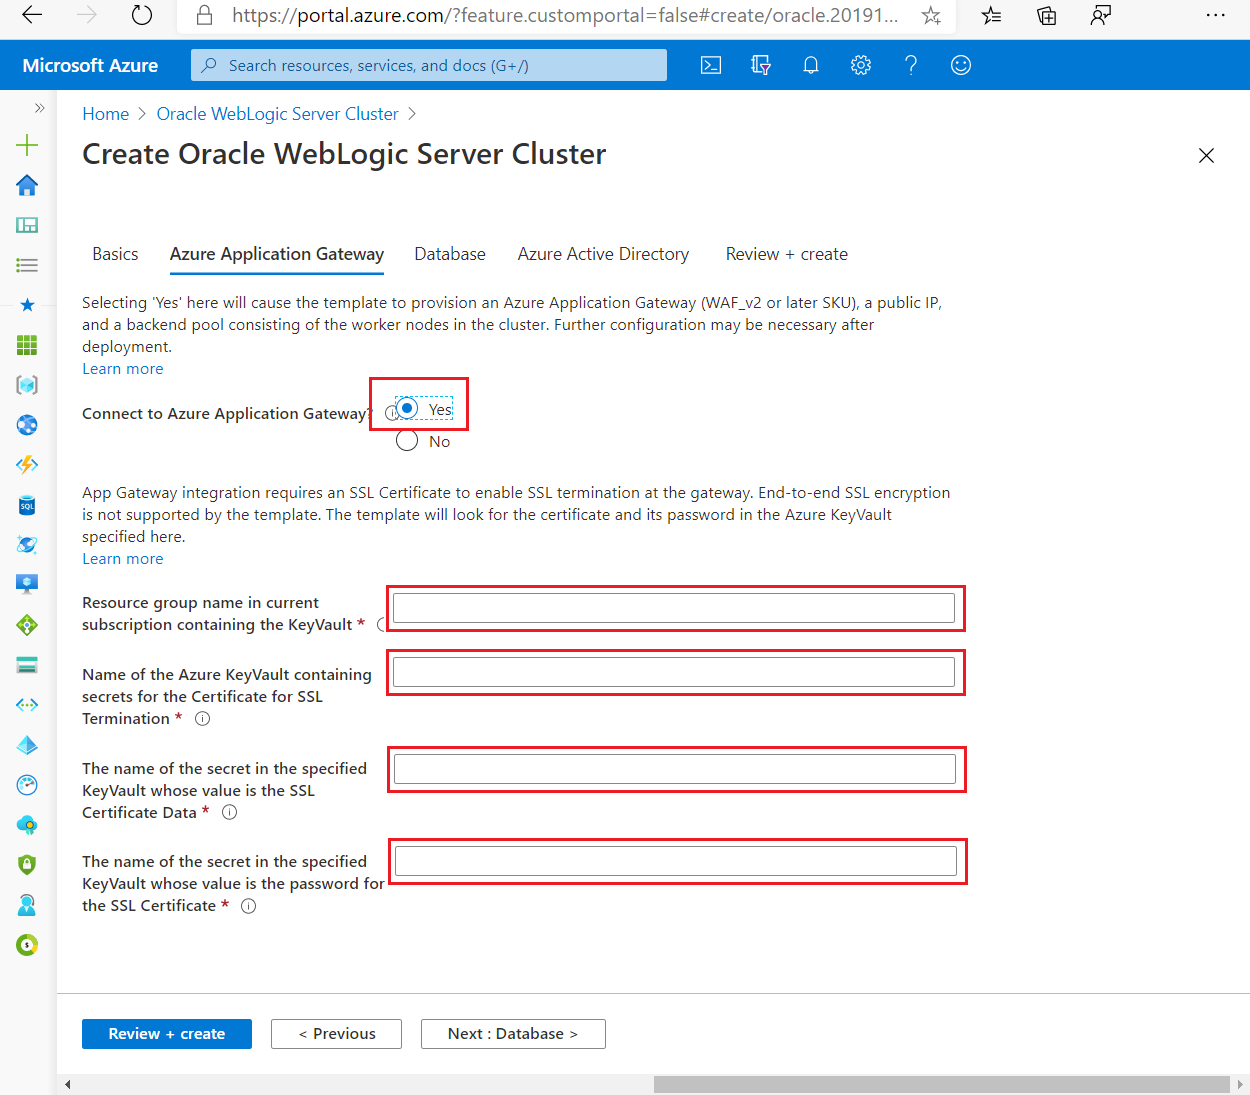
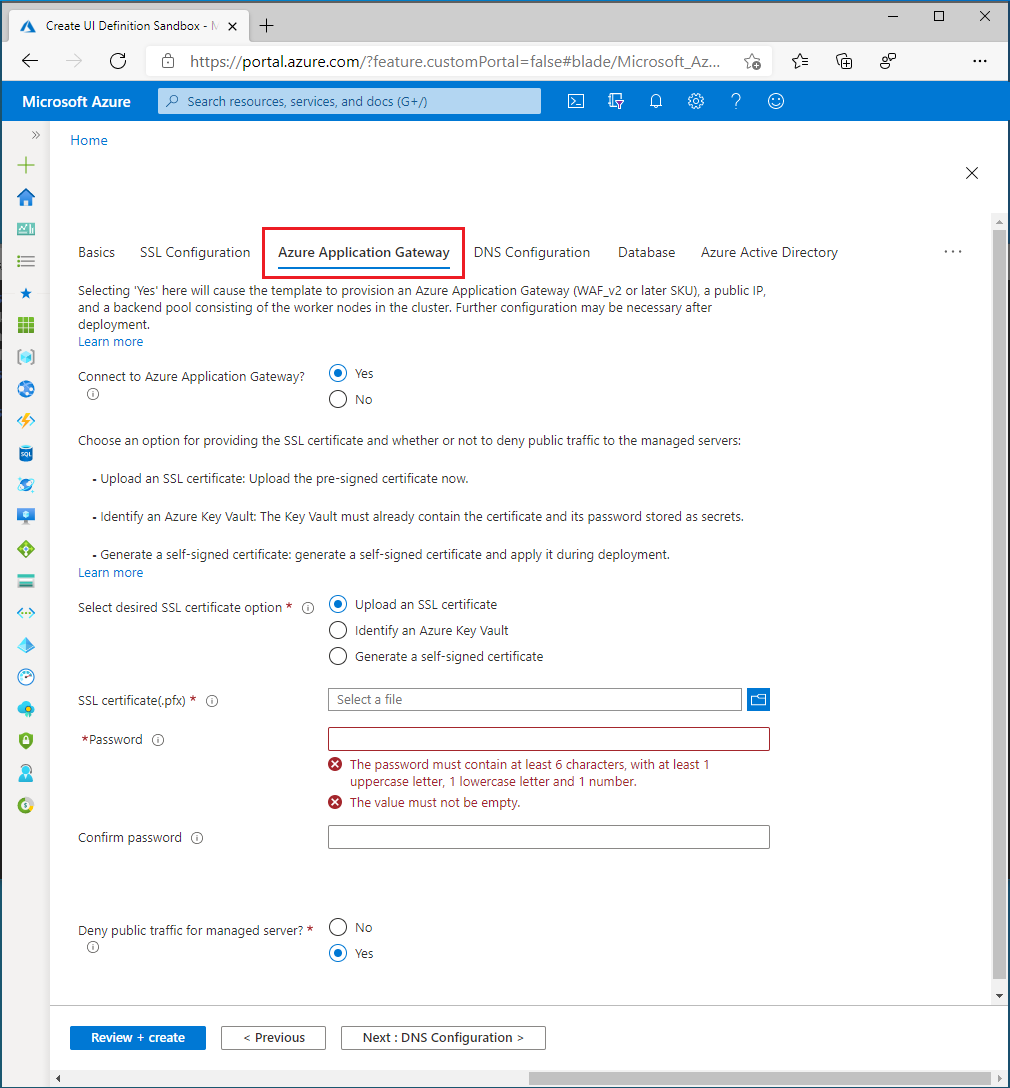
Change article from tutorial to how-to. modified:   articles/java/migration/migrate-weblogic-with-app-gateway.md new file:   articles/java/migration/media/migrate-weblogic-with-app-gateway/identify-key-vault.png new file:   articles/java/migration/media/migrate-weblogic-with-app-gateway/generate-sel
Lessons learned:
* Use "section" not "blade".
* Use contractions.

Changed region(s): [[0.0, 0.0, 1.0, 1.0], [0.0614, 0.9062, 0.5218, 0.9688], [0.5218, 0.375, 0.5525, 0.4062]]

diff --git a/articles/java/migration/migrate-weblogic-with-app-gateway.md b/articles/java/migration/migrate-weblogic-with-app-gateway.md
@@ -1,13 +1,13 @@
 ---
-title: Tutorial Migrate a WebLogic Server cluster to Azure with Azure Application Gateway as a load balancer
-description: This tutorial walks you through deploying WebLogic Server to Azure with Azure Application Gateway as a load balancer
+title: How to migrate a WebLogic Server cluster to Azure with Azure Application Gateway as a load balancer
+description: In this how-to guide, you walk through deploying WebLogic Server to Azure with Azure Application Gateway as a load balancer
 author: edburns
 ms.author: edburns
-ms.topic: tutorial
-ms.date: 10/15/2020
+ms.topic: how-to
+ms.date: 02/05/2021
 ---
 
-# Tutorial: Migrate a WebLogic Server cluster to Azure with Azure Application Gateway as a load balancer
+# Migrate a WebLogic Server cluster to Azure with Azure Application Gateway as a load balancer
 
 This tutorial walks you through the process of deploying WebLogic Server (WLS) with Azure Application Gateway.  It covers the specific steps for creating a Key Vault, storing an SSL certificate in the Key Vault, and using that certificate for SSL termination.  While all of these elements are well documented in their own right, this tutorial shows the specific way all of these elements come together to create a simple, yet powerful load-balancing solution for WLS on Azure.
 
@@ -20,9 +20,7 @@ Load balancing is an essential part of migrating your Oracle WebLogic Server clu
 In this tutorial, you learn how to:
 
 > [!div class="checklist"]
-> * Create an Azure Key Vault
-> * Create an SSL certificate
-> * Store the SSL certificate in the Key Vault
+> * Choose how to provide the SSL certificate to the App Gateway
 > * Deploy WebLogic Server with Azure Application Gateway to Azure
 > * Validate successful deployment of WLS and App Gateway
 
@@ -45,7 +43,67 @@ Here are some things to consider about migrating on-premise WLS installations an
 * If you're optimizing for the cloud, this guide shows you how to start from scratch with Azure App Gateway and WLS.
 * For a comprehensive survey of migrating WebLogic Server to Azure Virtual Machines, see [Migrate WebLogic Server applications to Azure Virtual Machines](migrate-weblogic-to-virtual-machines.md).
 
-## Create an Azure Key Vault
+## Deploy WebLogic Server with Application Gateway to Azure
+
+This section will show you how to provision a WLS cluster with Azure Application Gateway automatically created as the load balancer for the cluster nodes.  The Application Gateway will use the provided SSL certificate for SSL termination.  For advanced details on SSL termination with Application Gateway, see [Overview of TLS termination and end to end TLS with Application Gateway](/azure/application-gateway/ssl-overview).
+
+To create the WLS cluster and Application Gateway, use the following steps.
+
+First, begin the process of deploying a WebLogic Server configured or dynamic cluster as described [in the Oracle documentation](https://aka.ms/arm-oraclelinux-wls-cluster-oracle-docs), but come back to this page when you reach **Azure Application Gateway**, as shown here.
+
+:::image type="content" source="media/migrate-weblogic-with-app-gateway/weblogic-app-gateway-blade.png" alt-text="The App Gateway section within the Azure portal":::
+
+## Choose how to provide the SSL certificate to the App Gateway
+
+You have several options to provide the SSL certificate to the application gateway, but can only choose one. This section explains each option so you can choose the best one for your deployment.
+
+### Option one: Upload an SSL certificate
+
+This option is suitable for production workloads where the App Gateway faces the public Internet, or for intranet workloads that require SSL. By choosing this option, an Azure Key Vault is automatically provisioned to contain the SSL certificate used by the App Gateway.
+
+To upload an existing, signed, SSL certificate, use the following steps:
+
+1. Follow the steps from your certificate issuer to create a password protected SSL certificate and specify the DNS name for the certificate. How to choose wildcard vs. single-name certificate is beyond the scope of this document. Either one will work here.
+1. Export the certificate from your issuer using the PFX file format and download it to your local machine. If your issuer doesn't support exporting as PFX, tools exist to convert many certificate formats to PFX format.
+1. Select the **Azure Application Gateway** section.
+1. Next to **Connect to Azure Application Gateway**, select **Yes**.
+1. Select **Upload an SSL certificate**.
+1. Select the file browser icon for the field **SSL certificate**.  Navigate to the downloaded PFX format certificate and select **Open**.
+1. Enter the password for the certificate in the **Password** and **Confirm password** boxes.
+1. Choose whether or not to deny public traffic directly to the nodes of the managed servers. Selecting **Yes** will make it so the managed servers are only accessible through the App Gateway.
+
+### Select DNS Configuration
+
+SSL certificates are associated with a DNS domain name at the time they're issued by the certificate issuer. Follow the steps in this section to configure the deployment with the DNS name for the certificate. You can use a DNS Zone you already have created or allow the deployment to create one for you. Select the **DNS Configuration** section to continue.
+
+#### Use an existing Azure DNS Zone
+
+To use an existing Azure DNS Zone with the App Gateway, use the following steps:
+
+1. Next to **Configure Custom DNS Alias**, select **Yes**.
+1. Next to **Use an existing Azure DNS Zone** select **Yes**.
+1. Enter the name of the Azure DNS Zone next to **DNS Zone Name**.
+1. Enter the resource group that contains the Azure DNS Zone from the preceding step.
+
+#### Allow the deployment to create a new Azure DNS Zone
+
+To create an Azure DNS Zone to use with the App Gateway, use the following steps:
+
+1. Next to **Configure Custom DNS Alias**, select **Yes**.
+1. Next to **Use an existing Azure DNS Zone** select **No**.
+1. Enter the name of the Azure DNS Zone next to **DNS Zone Name**. A new DNS Zone will be created in the same resource group as WLS.
+
+Finally, specify the names for the child DNS zones. The deployment will create two child DNS zones for use with WLS: one for the admin console, and one for the App Gateway. For example, if your DNS Zone Name was 'contoso.net', you could enter *admin* and *app* as the values. The admin console would be available at 'admin.contoso.net' and the app gateway would be available at 'app.contoso.net'. Don't forget set up DNS delegation as described in [Delegation of DNS zones with Azure DNS](/azure/dns/dns-domain-delegation).
+
+:::image type="content" source="media/migrate-weblogic-with-app-gateway/child-dns-zones.png" alt-text="Child DNS zones":::
+
+The other options for providing an SSL certificate to the App Gateway are detailed in the following sections. If you're satisfied with your chosen option, you can skip to the section [Continue with deployment](#continue-with-deployment).
+
+### Option two: Identify an Azure Key Vault
+
+This option is suitable for production or non-production workloads, depending on the SSL certificate provided.  If you don't want the deployment to create an Azure Key Vault, you can identify an existing one or create one yourself. This option requires you to store the certificate and its password in the Azure Key Vault before continuing. If you have an existing Key Vault you want to use, skip to the section [Create an SSL certificate](#create-an-ssl-certificate).  Otherwise, continue to the next section.
+
+#### Create an Azure Key Vault
 
 This section shows how to use the Azure portal to create an Azure Key Vault.
 
@@ -68,7 +126,7 @@ This section shows how to use the Azure portal to create an Azure Key Vault.
 
 Key vault creation is fairly lightweight, typically completing in less than two minutes.  When deployment completes, select **Go to resource** and continue to the next section.
 
-## Create an SSL certificate
+#### Create an SSL certificate
 
 This section shows how to create a self-signed SSL certificate in a format suitable for use by Application Gateway deployed with WebLogic on Azure.  The certificate must have a non-empty password.  If you already have a valid, non-empty password SSL certificate in *.pfx* format, you can skip this section and move on to the next.  If your existing, valid, non-empty password SSL certificate is not in the *.pfx* format, first convert it to a *.pfx* file before skipping to the next section.  Otherwise, open a command shell and enter the following commands.
 
@@ -82,6 +140,7 @@ Follow these steps to create and base 64 encode the certificate:
    ```bash
    openssl genrsa 2048 > private.pem
    ```
+
 1. Create a corresponding public key.
 
    ```bash
@@ -109,9 +168,9 @@ Follow these steps to create and base 64 encode the certificate:
    base64 mycert.pfx > mycert.txt
    ```
 
-Now that you have created a Key Vault and have a valid SSL certificate with a non-empty password, you can store the certificate in the Key Vault.
+Now that you have a Key Vault and a valid SSL certificate with a non-empty password, you can store the certificate in the Key Vault.
 
-## Store the SSL certificate in the Key Vault
+#### Store the SSL certificate in the Key Vault
 
 This section shows how to store the certificate and its password in the Key Vault created in the preceding sections.
 
@@ -135,17 +194,12 @@ To store the password for the certificate, follow these steps:
 1. Leave the remaining values at their defaults and select **Create**.
 1. you'll be returned to the **Secrets** page.
 
-## Deploy WebLogic Server with Application Gateway to Azure
+#### Identify the Key Vault
 
-This section will show you how to use the Key Vault, SSL certificate, and password created in the preceding sections.  You'll provision a WLS cluster with Azure Application Gateway automatically created as the load balancer for the cluster nodes.  The Application Gateway will use the provided SSL certificate for SSL termination.  For advanced details on SSL termination with Application Gateway, see [Overview of TLS termination and end to end TLS with Application Gateway](/azure/application-gateway/ssl-overview).
+Now that you have a Key Vault with a signed SSL certificate and its password stored as secrets, return to the **Azure Application Gateway** section to identify the Key Vault for the deployment.
 
-To create the WLS cluster and Application Gateway, follow these steps:
+:::image type="content" source="media/migrate-weblogic-with-app-gateway/identify-key-vault.png" alt-text="Identify Key Vault":::
 
-1. Provision a WebLogic Server Cluster as described [in the Oracle documentation](https://aka.ms/arm-oraclelinux-wls-cluster-oracle-docs) using the [WebLogic Server Cluster Offer in the Azure Portal](https://portal.azure.com/#create/oracle.20191007-arm-oraclelinux-wls-cluster20191007-arm-oraclelinux-wls-cluster), but come back to this page when you reach the **Azure Application Gateway** blade, shown here.
-
-   :::image type="content" source="media/migrate-weblogic-with-app-gateway/weblogic-app-gateway-blade.png" alt-text="The App Gateway Blade within the Azure portal":::
-
-1. At the **Azure Application Gateway** blade, select **Yes**.
 1. Under **Resource group name in current subscription containing the KeyVault**, enter the name of the resource group containing the Key Vault you created earlier.
 1. Under **Name of the Azure KeyVault containing secrets for the Certificate for SSL Termination**, enter the name of the Key Vault.
 1. Under **The name of the secret in the specified KeyVault whose value is the SSL Certificate Data**, enter `myCertSecretData`,  or whatever name you entered previously.
@@ -155,6 +209,25 @@ To create the WLS cluster and Application Gateway, follow these steps:
 1. Once you see **Validation passed**, select **Create**.
 
 This will start the process of creating the WLS cluster and its front-end Application Gateway, which may take about 15 minutes.  When the deployment completes, select **Go to resource group**. From the list of resources in the resource group, select **myAppGateway**.
+
+The final option for providing an SSL certificate to the App Gateway is detailed in the next section. If you're satisfied with your chosen option, you can skip to the section [Continue with deployment](#continue-with-deployment).
+
+### Option three: Generate a self-signed certificate
+
+This option is suitable for test and development deployments only. With this option, both an Azure Key Vault and a self-signed certificate are automatically created, and the certificate is provided to App Gateway.
+
+To request the deployment to perform these actions, use the following steps:
+
+1. In the **Azure Application Gateway** section, select **Generate a self-signed certificate**.
+1. Select a user-assigned managed identity. This is necessary to allow the deployment to create the Azure Key Vault and certificate.
+1. If you don't already have a user-assigned managed identity, select **Add** to begin the process of creating one.
+1. To create a user-assigned managed identity, follow the steps in [Create a user-assigned managed identity](/azure/active-directory/managed-identities-azure-resources/how-to-manage-ua-identity-portal#create-a-user-assigned-managed-identity). Once you've selected the user-assigned managed identity, make sure the checkbox next to the user-assigned managed identity is checked.
+
+:::image type="content" source="media/migrate-weblogic-with-app-gateway/generate-self-signed-certificate.png" alt-text="Generate a self-signed certificate":::
+
+## Continue with deployment
+
+You can now continue with the other aspects of the WLS deployment as described [in the Oracle documentation](https://aka.ms/arm-oraclelinux-wls-cluster-oracle-docs).
 
 ## Validate successful deployment of WLS and App Gateway
 
